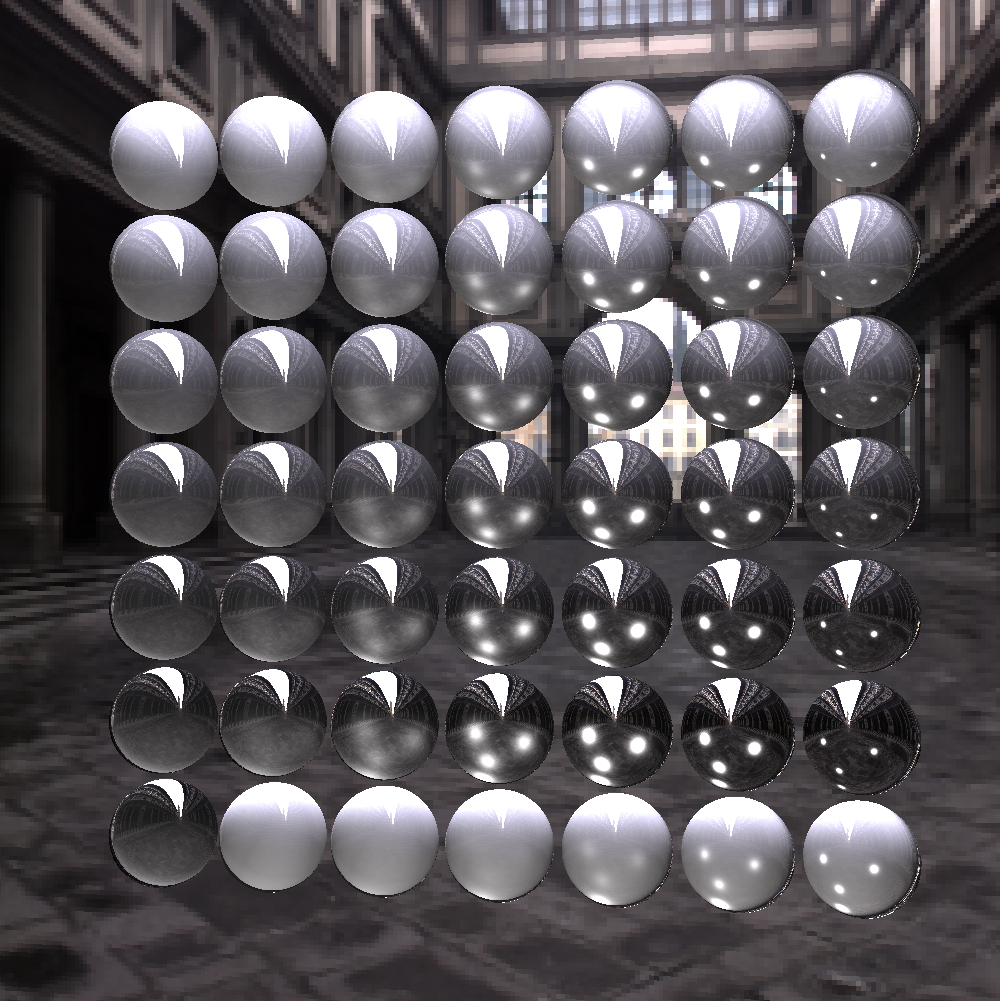
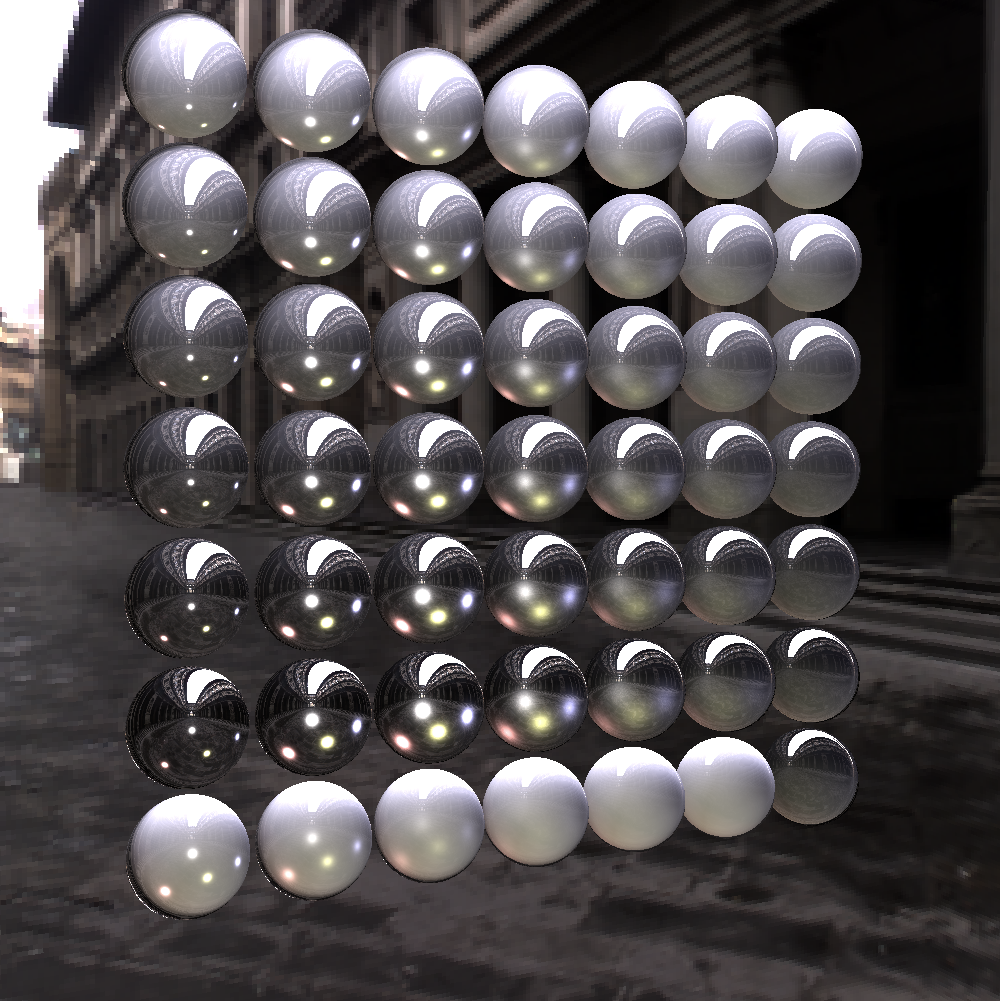
Update ibl image

diff --git a/engine/src/scene/sceneList/ibl.cpp b/engine/src/scene/sceneList/ibl.cpp
@@ -102,7 +102,7 @@ Result IBLScene::load(platform::Context* platformContext)
         }
     }
 
-    view->setView(glm::vec3(1.950f, 0.1f, -3.7f), glm::vec3(-1.10f, 25.0f, 0.0f));
+    view->setView(glm::vec3(1.56, 0.08f, -2.88f), glm::vec3(-1.10f, 25.0f, 0.0f));
     view->setPerspective(45.0f, 1, 0.1f, 512.f);
     view->updateViewMatrix();
 
@@ -124,23 +124,23 @@ Result IBLScene::udpate(platform::Context* context)
     // White
     light->setLightPosition(
         0, glm::vec4(sin(glm::radians(360.0f * timer)) * 5.0f, cos(glm::radians(360.0f * timer)) * 5.0f, -10.0f, 0.0f));
-    light->setLightColor(0, glm::vec3(1.5f));
+    light->setLightColor(0, glm::vec3(1.0f));
     light->setLightRadius(0, 15.0f);
 
     // Red
     light->setLightPosition(1, glm::vec4(-4.0f + sin(glm::radians(360.0f * timer) + 45.0f) * 2.0f, 2.0f,
                                          0.0f + cos(glm::radians(360.0f * timer) + 45.0f) * 2.0f, 0.0f));
-    light->setLightColor(1, glm::vec3(1.0f, 0.0f, 0.0f));
+    light->setLightColor(1, glm::vec3(1.0f, 0.6f, 0.6f));
     light->setLightRadius(1, 30.0f);
     // Blue
     light->setLightPosition(2, glm::vec4(4.0f + sin(glm::radians(360.0f * timer)) * 2.0f, 2.0f,
                                          0.0f + cos(glm::radians(360.0f * timer)) * 2.0f, 0.0f));
-    light->setLightColor(2, glm::vec3(0.0f, 0.0f, 2.5f));
+    light->setLightColor(2, glm::vec3(0.7f, 0.7f, 1.0f));
     light->setLightRadius(2, 25.0f);
     // Yellow
     light->setLightPosition(3, glm::vec4(0.0f + sin(glm::radians(360.0f * timer + 90.0f)) * 5.0f, 20.0f,
                                          0.0f - cos(glm::radians(360.0f * timer + 45.0f)) * 5.0f, 0.0f));
-    light->setLightColor(3, glm::vec3(1.0f, 1.0f, 0.0f));
+    light->setLightColor(3, glm::vec3(1.0f, 1.0f, 0.6f));
     light->setLightRadius(3, 15.0f);
     // Green
     light->setLightPosition(4, glm::vec4(0.0f + sin(glm::radians(-360.0f * timer + 135.0f)) * 10.0f, 2.5f,

diff --git a/engine/src/renderer/sceneRenderer/forward.cpp b/engine/src/renderer/sceneRenderer/forward.cpp
@@ -106,7 +106,6 @@ Result Forward::render(platform::Context* platformContext, scene::SceneInfo* sce
 
             context->createGfxPipeline(graphicsPipelineState);
             context->pushConstant(rhi::ShaderStage::Pixel, sizeof(pbr::PushBlock), &pushblocks[idx]);
-            LOGD("%f %f %f", pushblocks[idx].metallic, pushblocks[idx].roughness, pushblocks[idx].specular);
 
             idx = idx >= 48 ? 48 : idx + 1;
 

diff --git a/engine/src/vulkan/context.cpp b/engine/src/vulkan/context.cpp
@@ -98,6 +98,7 @@ void Context::terminateRHIImplementation()
 
 Result Context::flush()
 {
+    Queue* presentQueue = queueMap->getQueue(QueueType::GraphicPresent);
     // Queue* queue = queueMap->getQueue();
 
     return Result::Continue;
